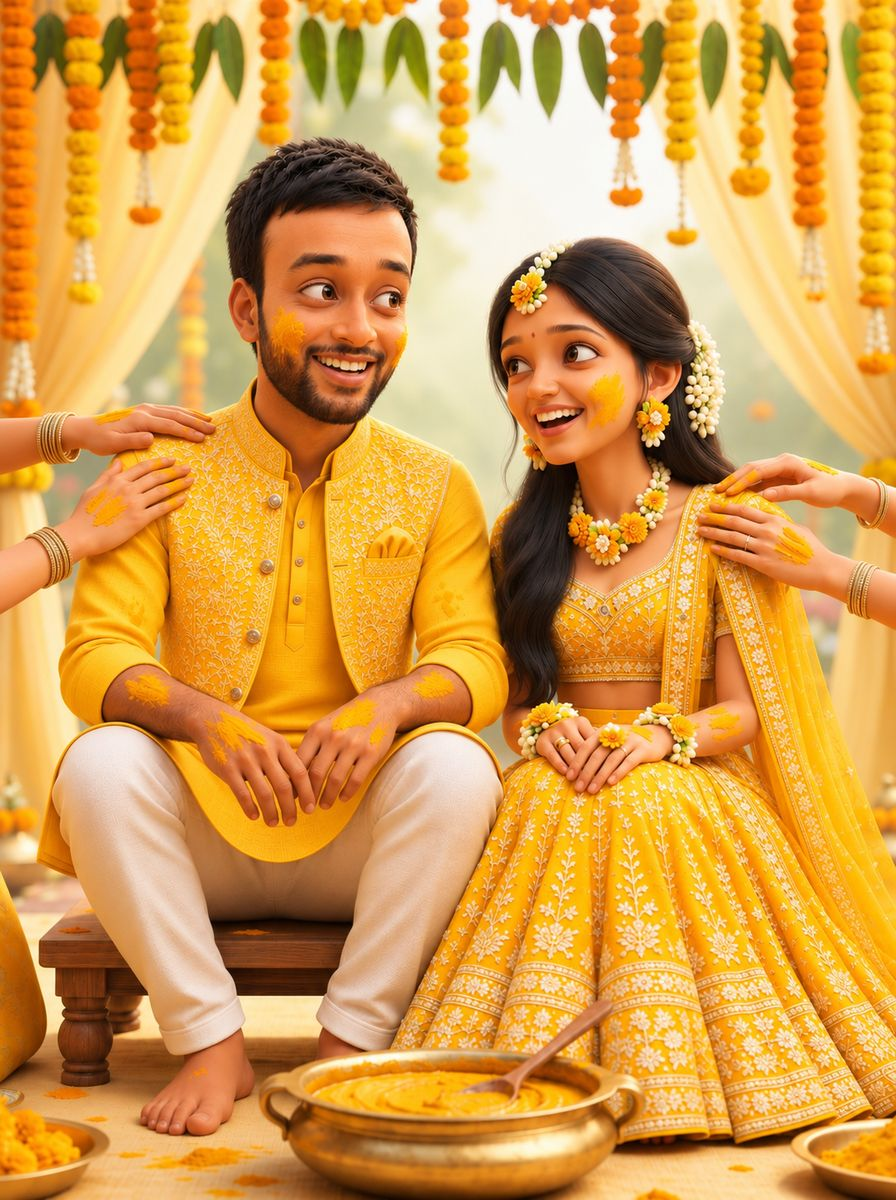
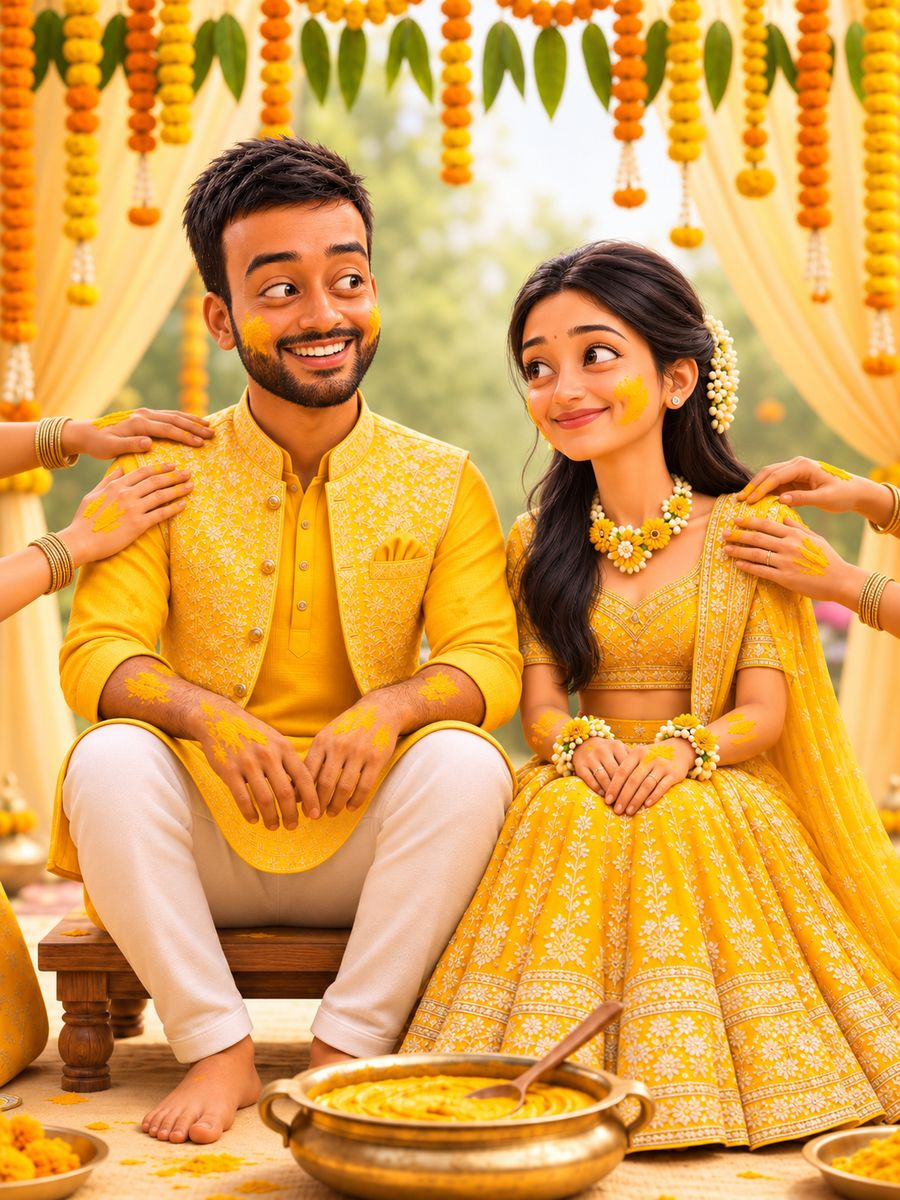
Update haldi illustration to the new character style
Claude-Session: https://claude.ai/code/session_01RUSAZVA9SuKP7A8c58QbLi

diff --git a/index.html b/index.html
@@ -748,7 +748,7 @@
     <div class="toran" aria-hidden="true"><span class="strand" style="left:2%;--d:3.2s;--delay:-0.65s"><svg viewBox="0 0 24 118" width="24" height="118"><line x1="12" y1="0" x2="12" y2="96" stroke="#7A4A10" stroke-width="1"/><circle cx="12" cy="10" r="8.5" fill="#F29A1F" stroke="#C46A0C" stroke-width="1"/><circle cx="12" cy="10" r="3" fill="#E07E10" opacity=".7"/><circle cx="12" cy="25" r="8.5" fill="#F7C531" stroke="#C46A0C" stroke-width="1"/><circle cx="12" cy="25" r="3" fill="#E07E10" opacity=".7"/><circle cx="12" cy="40" r="8.5" fill="#F29A1F" stroke="#C46A0C" stroke-width="1"/><circle cx="12" cy="40" r="3" fill="#E07E10" opacity=".7"/><circle cx="12" cy="55" r="8.5" fill="#F7C531" stroke="#C46A0C" stroke-width="1"/><circle cx="12" cy="55" r="3" fill="#E07E10" opacity=".7"/><circle cx="12" cy="70" r="8.5" fill="#F29A1F" stroke="#C46A0C" stroke-width="1"/><circle cx="12" cy="70" r="3" fill="#E07E10" opacity=".7"/><circle cx="12" cy="85" r="8.5" fill="#F7C531" stroke="#C46A0C" stroke-width="1"/><circle cx="12" cy="85" r="3" fill="#E07E10" opacity=".7"/><path d="M12 96 c6 4 6 12 0 18 c-6-6-6-14 0-18z" fill="#3E7D2E"/></svg></span><span class="strand" style="left:9%;--d:2.6s;--delay:-0.30s"><svg viewBox="0 0 24 88" width="24" height="88"><line x1="12" y1="0" x2="12" y2="66" stroke="#7A4A10" stroke-width="1"/><circle cx="12" cy="10" r="8.5" fill="#F29A1F" stroke="#C46A0C" stroke-width="1"/><circle cx="12" cy="10" r="3" fill="#E07E10" opacity=".7"/><circle cx="12" cy="25" r="8.5" fill="#F7C531" stroke="#C46A0C" stroke-width="1"/><circle cx="12" cy="25" r="3" fill="#E07E10" opacity=".7"/><circle cx="12" cy="40" r="8.5" fill="#F29A1F" stroke="#C46A0C" stroke-width="1"/><circle cx="12" cy="40" r="3" fill="#E07E10" opacity=".7"/><circle cx="12" cy="55" r="8.5" fill="#F7C531" stroke="#C46A0C" stroke-width="1"/><circle cx="12" cy="55" r="3" fill="#E07E10" opacity=".7"/><path d="M12 66 c6 4 6 12 0 18 c-6-6-6-14 0-18z" fill="#3E7D2E"/></svg></span><span class="strand" style="left:16%;--d:3.6s;--delay:-1.30s"><svg viewBox="0 0 24 133" width="24" height="133"><line x1="12" y1="0" x2="12" y2="111" stroke="#7A4A10" stroke-width="1"/><circle cx="12" cy="10" r="8.5" fill="#F29A1F" stroke="#C46A0C" stroke-width="1"/><circle cx="12" cy="10" r="3" fill="#E07E10" opacity=".7"/><circle cx="12" cy="25" r="8.5" fill="#F7C531" stroke="#C46A0C" stroke-width="1"/><circle cx="12" cy="25" r="3" fill="#E07E10" opacity=".7"/><circle cx="12" cy="40" r="8.5" fill="#F29A1F" stroke="#C46A0C" stroke-width="1"/><circle cx="12" cy="40" r="3" fill="#E07E10" opacity=".7"/><circle cx="12" cy="55" r="8.5" fill="#F7C531" stroke="#C46A0C" stroke-width="1"/><circle cx="12" cy="55" r="3" fill="#E07E10" opacity=".7"/><circle cx="12" cy="70" r="8.5" fill="#F29A1F" stroke="#C46A0C" stroke-width="1"/><circle cx="12" cy="70" r="3" fill="#E07E10" opacity=".7"/><circle cx="12" cy="85" r="8.5" fill="#F7C531" stroke="#C46A0C" stroke-width="1"/><circle cx="12" cy="85" r="3" fill="#E07E10" opacity=".7"/><circle cx="12" cy="100" r="8.5" fill="#F29A1F" stroke="#C46A0C" stroke-width="1"/><circle cx="12" cy="100" r="3" fill="#E07E10" opacity=".7"/><path d="M12 111 c6 4 6 12 0 18 c-6-6-6-14 0-18z" fill="#3E7D2E"/></svg></span><span class="strand" style="left:84%;--d:3.4s;--delay:-0.14s"><svg viewBox="0 0 24 133" width="24" height="133"><line x1="12" y1="0" x2="12" y2="111" stroke="#7A4A10" stroke-width="1"/><circle cx="12" cy="10" r="8.5" fill="#F29A1F" stroke="#C46A0C" stroke-width="1"/><circle cx="12" cy="10" r="3" fill="#E07E10" opacity=".7"/><circle cx="12" cy="25" r="8.5" fill="#F7C531" stroke="#C46A0C" stroke-width="1"/><circle cx="12" cy="25" r="3" fill="#E07E10" opacity=".7"/><circle cx="12" cy="40" r="8.5" fill="#F29A1F" stroke="#C46A0C" stroke-width="1"/><circle cx="12" cy="40" r="3" fill="#E07E10" opacity=".7"/><circle cx="12" cy="55" r="8.5" fill="#F7C531" stroke="#C46A0C" stroke-width="1"/><circle cx="12" cy="55" r="3" fill="#E07E10" opacity=".7"/><circle cx="12" cy="70" r="8.5" fill="#F29A1F" stroke="#C46A0C" stroke-width="1"/><circle cx="12" cy="70" r="3" fill="#E07E10" opacity=".7"/><circle cx="12" cy="85" r="8.5" fill="#F7C531" stroke="#C46A0C" stroke-width="1"/><circle cx="12" cy="85" r="3" fill="#E07E10" opacity=".7"/><circle cx="12" cy="100" r="8.5" fill="#F29A1F" stroke="#C46A0C" stroke-width="1"/><circle cx="12" cy="100" r="3" fill="#E07E10" opacity=".7"/><path d="M12 111 c6 4 6 12 0 18 c-6-6-6-14 0-18z" fill="#3E7D2E"/></svg></span><span class="strand" style="left:91%;--d:2.8s;--delay:-1.07s"><svg viewBox="0 0 24 88" width="24" height="88"><line x1="12" y1="0" x2="12" y2="66" stroke="#7A4A10" stroke-width="1"/><circle cx="12" cy="10" r="8.5" fill="#F29A1F" stroke="#C46A0C" stroke-width="1"/><circle cx="12" cy="10" r="3" fill="#E07E10" opacity=".7"/><circle cx="12" cy="25" r="8.5" fill="#F7C531" stroke="#C46A0C" stroke-width="1"/><circle cx="12" cy="25" r="3" fill="#E07E10" opacity=".7"/><circle cx="12" cy="40" r="8.5" fill="#F29A1F" stroke="#C46A0C" stroke-width="1"/><circle cx="12" cy="40" r="3" fill="#E07E10" opacity=".7"/><circle cx="12" cy="55" r="8.5" fill="#F7C531" stroke="#C46A0C" stroke-width="1"/><circle cx="12" cy="55" r="3" fill="#E07E10" opacity=".7"/><path d="M12 66 c6 4 6 12 0 18 c-6-6-6-14 0-18z" fill="#3E7D2E"/></svg></span><span class="strand" style="left:98%;--d:3.0s;--delay:-0.73s"><svg viewBox="0 0 24 118" width="24" height="118"><line x1="12" y1="0" x2="12" y2="96" stroke="#7A4A10" stroke-width="1"/><circle cx="12" cy="10" r="8.5" fill="#F29A1F" stroke="#C46A0C" stroke-width="1"/><circle cx="12" cy="10" r="3" fill="#E07E10" opacity=".7"/><circle cx="12" cy="25" r="8.5" fill="#F7C531" stroke="#C46A0C" stroke-width="1"/><circle cx="12" cy="25" r="3" fill="#E07E10" opacity=".7"/><circle cx="12" cy="40" r="8.5" fill="#F29A1F" stroke="#C46A0C" stroke-width="1"/><circle cx="12" cy="40" r="3" fill="#E07E10" opacity=".7"/><circle cx="12" cy="55" r="8.5" fill="#F7C531" stroke="#C46A0C" stroke-width="1"/><circle cx="12" cy="55" r="3" fill="#E07E10" opacity=".7"/><circle cx="12" cy="70" r="8.5" fill="#F29A1F" stroke="#C46A0C" stroke-width="1"/><circle cx="12" cy="70" r="3" fill="#E07E10" opacity=".7"/><circle cx="12" cy="85" r="8.5" fill="#F7C531" stroke="#C46A0C" stroke-width="1"/><circle cx="12" cy="85" r="3" fill="#E07E10" opacity=".7"/><path d="M12 96 c6 4 6 12 0 18 c-6-6-6-14 0-18z" fill="#3E7D2E"/></svg></span></div>
     <p class="ev-day rv">Tuesday, 29 December</p>
     <h2 class="ev-title rv" id="haldi-h">Engagement<br>&amp; Haldi</h2>
-    <figure class="ev-photo rv"><img src="img/ch-haldi.jpg" width="896" height="1200" loading="lazy" alt="Illustration of Pramod and Shruti in yellow at their haldi, laughing as family apply turmeric"></figure>
+    <figure class="ev-photo rv"><img src="img/ch-haldi.jpg?v=2" width="900" height="1200" loading="lazy" alt="Illustration of Pramod and Shruti in yellow at their haldi, laughing as family apply turmeric"></figure>
     <ul class="ev-list rv">
       <li><span class="ev-name">Engagement</span><span class="ev-time">5:00 pm</span></li>
       <li><span class="ev-name">Haldi ceremony</span><span class="ev-time">After the engagement</span></li>
